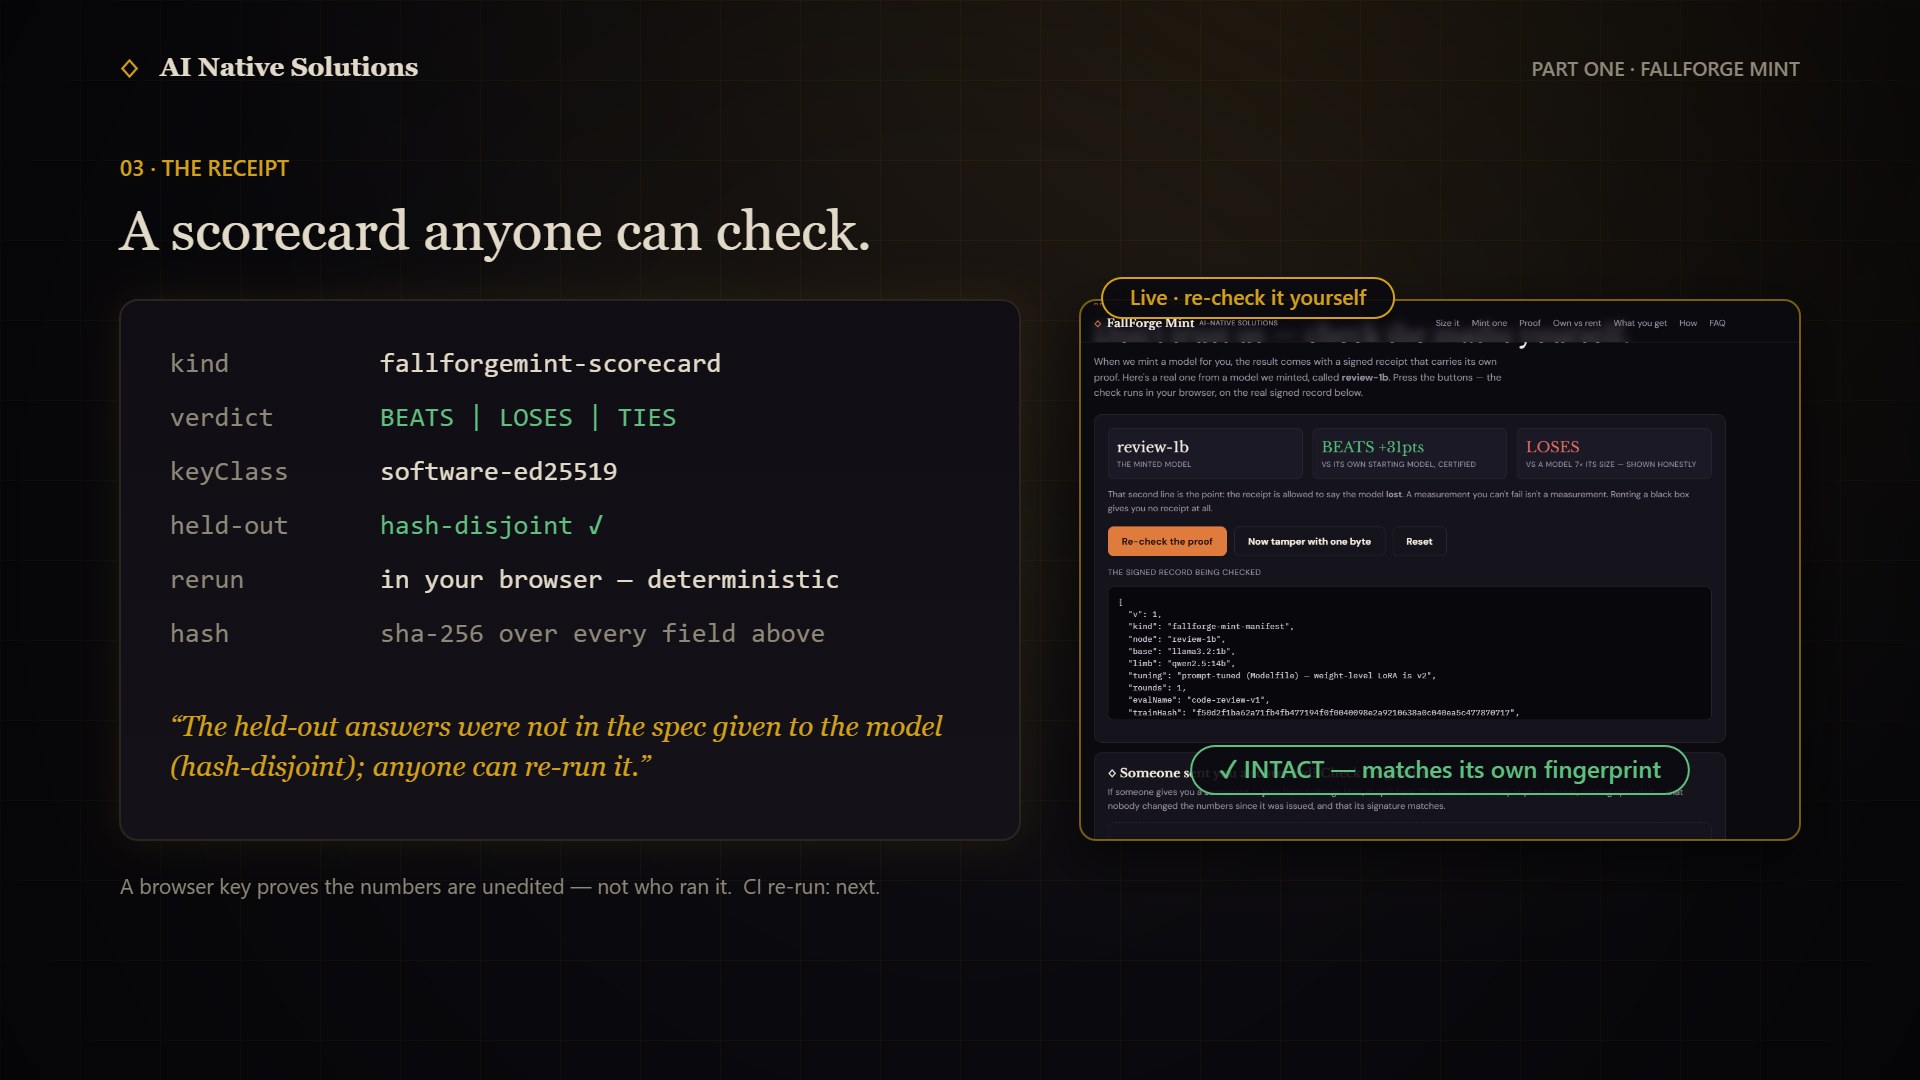
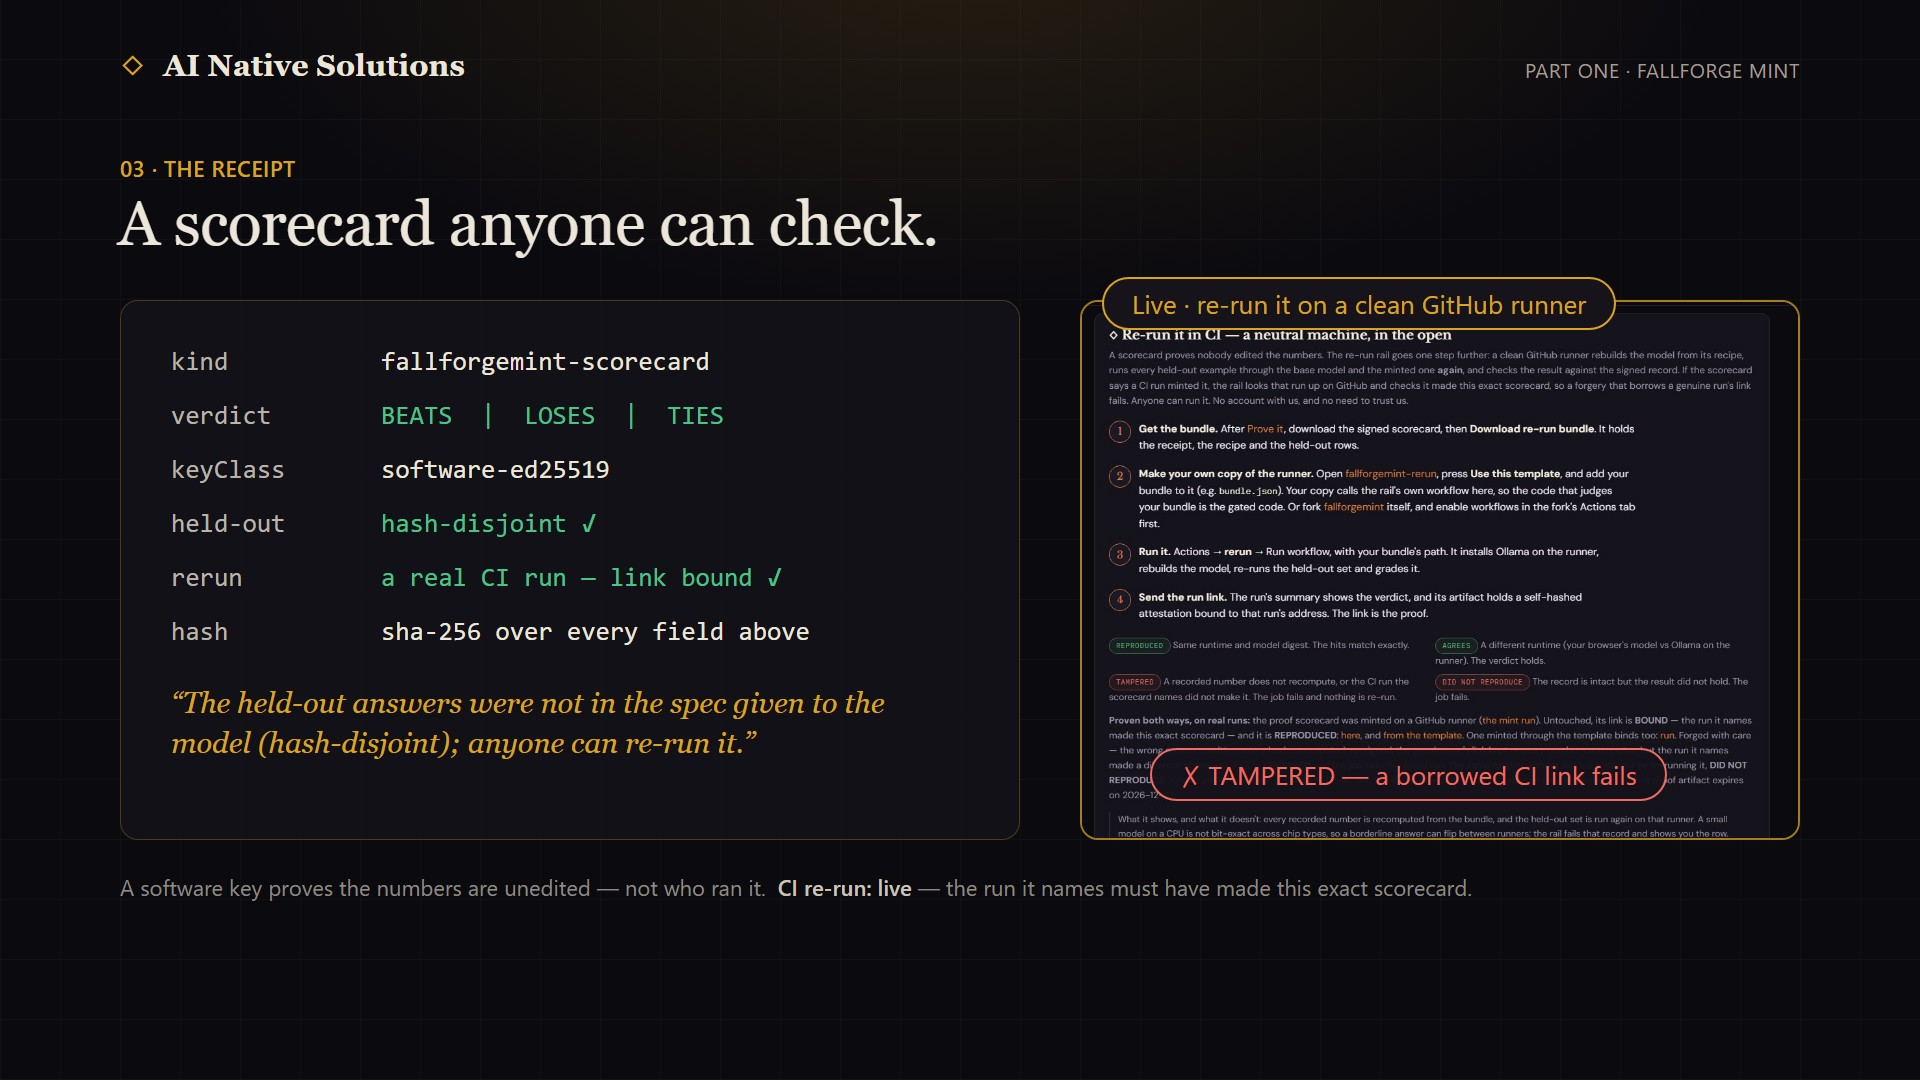
Fix the two stills that said the CI re-run was "next"; render the receipt still from source
Simon: "fix those two images". Both showed the CI re-run as a roadmap item; it has been live, with link-binding, since
28 September.
- media/images/scorecard-trust-rail.jpg ("03 · THE RECEIPT") is now rendered by scripts/render-stills.mjs from
  scripts/stills/scorecard-trust-rail.html, with the held-out quote filled from facts.json (it refuses an unfilled
  placeholder). rerun reads "a real CI run — link bound", the right panel is the live re-run card with "a borrowed CI
  link fails" (fallforgemint run 36439573329), and the footer says "CI re-run: live".
- media/shots/fallforgemint-get.jpg recaptured from the live page: "Re-run in CI" is live.
- media/shots/fallforgemint-rerun.jpg (new) is the live re-run card the still uses.
- The explainer's figure (the one page that shows the still) has a cache key and alt text that say what it now shows.
Not re-rendered (reported to Simon): the film shows "CI re-run: next." on the receipt frame near 0:35, and the PDF
brochure still says "A one-click CI re-run is next." and lists it under Next.

diff --git a/scripts/stills/scorecard-trust-rail.html b/scripts/stills/scorecard-trust-rail.html
@@ -1,0 +1,49 @@
+<!doctype html>
+<!-- The source of media/images/scorecard-trust-rail.jpg (the film's "03 · THE RECEIPT" still), rendered at 1920x1080 by
+     scripts/render-stills.mjs. {{HELD_OUT}} is filled from media/film/facts.json; the right panel is a capture of the
+     live FallForge Mint re-run card (media/shots/fallforgemint-rerun.jpg). Regenerate both when the product changes. -->
+<html lang="en"><meta charset="utf-8"><title>03 · The receipt</title>
+<style>
+  :root{--bg:#0b0a0f;--ink:#ece6da;--muted:#8f8a84;--gold:#d9a520;--green:#4cc38a;--red:#f06b61;--panel:#141218}
+  *{box-sizing:border-box}
+  html,body{margin:0;width:1920px;height:1080px;overflow:hidden;background:var(--bg);color:var(--ink)}
+  body{background:
+    radial-gradient(1100px 520px at 50% -60px, rgba(217,165,32,.13), transparent 70%),
+    repeating-linear-gradient(0deg, rgba(255,255,255,.022) 0 1px, transparent 1px 60px),
+    repeating-linear-gradient(90deg, rgba(255,255,255,.022) 0 1px, transparent 1px 60px), var(--bg);
+    font-family:"Segoe UI",system-ui,sans-serif;position:relative}
+  .brand{position:absolute;left:120px;top:48px;font:700 30px Georgia,serif;letter-spacing:.2px}
+  .brand b{color:var(--gold);font-weight:400;margin-right:18px}
+  .part{position:absolute;right:120px;top:56px;font-size:20px;color:#a39d95;letter-spacing:.6px}
+  .eyebrow{position:absolute;left:120px;top:153px;font-size:22px;color:var(--gold);letter-spacing:.4px;font-weight:500}
+  h1{position:absolute;left:118px;top:188px;margin:0;font:400 62px Georgia,serif;letter-spacing:-.4px}
+  .card{position:absolute;left:120px;top:300px;width:900px;height:540px;border:1px solid rgba(217,165,32,.28);border-radius:18px;background:rgba(20,18,24,.92);padding:34px 50px}
+  .row{display:grid;grid-template-columns:210px 1fr;font:26px/54px Consolas,"Cascadia Mono",monospace}
+  .row .k{color:#b9b3aa}.row .v{color:var(--ink)}.row .g{color:var(--green)}
+  .quote{margin-top:24px;font:italic 29px/40px Georgia,serif;color:var(--gold)}
+  .shot{position:absolute;left:1080px;top:300px;width:720px;height:540px;border:2px solid rgba(217,165,32,.75);border-radius:18px;overflow:hidden;background:#0d0c11}
+  .shot img{position:absolute;width:1040px;left:-170px;top:-36px}
+  .pill{position:absolute;border-radius:40px;background:#16131b;font-size:26px;padding:7px 28px;white-space:nowrap}
+  .live{left:1102px;top:277px;border:2px solid var(--gold);color:var(--gold)}
+  .bad{left:1150px;top:748px;border:2px solid var(--red);color:var(--red);background:rgba(22,19,27,.96)}
+  .foot{position:absolute;left:120px;top:872px;font-size:22px;color:var(--muted)}
+  .foot b{color:#c9c3b9;font-weight:500}
+</style>
+<div class="brand"><b>◇</b>AI Native Solutions</div>
+<div class="part">PART ONE · FALLFORGE MINT</div>
+<div class="eyebrow">03 · THE RECEIPT</div>
+<h1>A scorecard anyone can check.</h1>
+<div class="card">
+  <div class="row"><span class="k">kind</span><span class="v">fallforgemint-scorecard</span></div>
+  <div class="row"><span class="k">verdict</span><span class="g">BEATS &nbsp;|&nbsp; LOSES &nbsp;|&nbsp; TIES</span></div>
+  <div class="row"><span class="k">keyClass</span><span class="v">software-ed25519</span></div>
+  <div class="row"><span class="k">held-out</span><span class="g">hash-disjoint ✓</span></div>
+  <div class="row"><span class="k">rerun</span><span class="g">a real CI run — link bound ✓</span></div>
+  <div class="row"><span class="k">hash</span><span class="v">sha-256 over every field above</span></div>
+  <div class="quote">“{{HELD_OUT}}”</div>
+</div>
+<div class="shot"><img src="../../media/shots/fallforgemint-rerun.jpg" alt=""></div>
+<div class="pill live">Live · re-run it on a clean GitHub runner</div>
+<div class="pill bad">✗ TAMPERED — a borrowed CI link fails</div>
+<div class="foot">A software key proves the numbers are unedited — not who ran it. &nbsp;<b>CI re-run: live</b> — the run it names must have made this exact scorecard.</div>
+</html>

diff --git a/explainer.html b/explainer.html
@@ -196,7 +196,7 @@ footer .k{margin-left:auto}
     <figure><img src="media/images/sizer-ladder.jpg" alt="The sizer ladder from about 1 billion to about 200 billion parameters, recommending Llama 3.2 1B for a short-label classification job" loading="lazy" width="1920" height="1080"><figcaption><b>The sizer, 1B → ~200B.</b> The smallest open-weight model that clears the bar — a 1B answer says 1B. <a href="media/images/sizer-ladder.jpg" download>Download</a></figcaption></figure>
     <figure><img src="media/images/sizer-ladder-70b.jpg" alt="The sizer ladder recommending Llama 3.3 70B for a strict code-writing job on a GPU box" loading="lazy" width="1920" height="1080"><figcaption><b>…and when bigger is genuinely needed.</b> Strict code on a GPU box: Llama 3.3 70B. <a href="media/images/sizer-ladder-70b.jpg" download>Download</a></figcaption></figure>
     <figure><img src="media/images/scorecard-real-receipt.jpg" alt="A real signed receipt: review-1b scored 9 of 16 against its base model's 4 of 16, BEATS, certified; against qwen2.5 7B's 11 of 16 it LOSES" loading="lazy" width="1920" height="1080"><figcaption><b>A real receipt that says it lost.</b> review-1b beats its base 9/16 vs 4/16 — and loses to a model ~7× its size. <a href="media/images/scorecard-real-receipt.jpg" download>Download</a></figcaption></figure>
-    <figure><img src="media/images/scorecard-trust-rail.jpg" alt="The scorecard fields: verdict, keyClass software-ed25519, held-out hash-disjoint, re-run in your browser, and a live verify check" loading="lazy" width="1920" height="1080"><figcaption><b>The scorecard.</b> What the signature proves, the narrow-true held-out claim, and a re-run anyone can do. <a href="media/images/scorecard-trust-rail.jpg" download>Download</a></figcaption></figure>
+    <figure><img src="media/images/scorecard-trust-rail.jpg?v=2026-09-28-rail" alt="The scorecard fields: verdict, keyClass software-ed25519, held-out hash-disjoint, rerun a real CI run whose link is bound, beside the live CI re-run card, where a borrowed CI link fails" loading="lazy" width="1920" height="1080"><figcaption><b>The scorecard.</b> What the signature proves, the narrow-true held-out claim, and a re-run anyone can do on a clean GitHub runner. <a href="media/images/scorecard-trust-rail.jpg?v=2026-09-28-rail" download>Download</a></figcaption></figure>
     <figure><img src="media/images/own-vs-rent.jpg" alt="Own versus rent, relative cost per million tokens: owning 1x, cloud GPU instances about 6x, a hosted reasoning-model API about 17x; low use says keep renting, high use says own it" loading="lazy" width="1920" height="1080"><figcaption><b>Own vs rent, honestly.</b> Cited from Lenovo's 2026 TCO study — and it says keep renting when that's cheaper. <a href="media/images/own-vs-rent.jpg" download>Download</a></figcaption></figure>
     <figure><img src="media/images/pipeline-seven-stages.jpg" alt="One pipeline, seven stages: Prove, Own, Shape, Carry, Remember, Run, Connect" loading="lazy" width="1920" height="1080"><figcaption><b>One pipeline, seven stages.</b> Prove · Own · Shape · Carry · Remember · Run · Connect. <a href="media/images/pipeline-seven-stages.jpg" download>Download</a></figcaption></figure>
     <figure><img src="media/images/trust-rail-witness.jpg" alt="The witness mutation gate: FallForge Mint 224 of 225 mutants killed with no survivors; left-pad 5 of 6 killed with one survivor" loading="lazy" width="1920" height="1080"><figcaption><b>The trust rail.</b> A gate that tries to break every test — and found a line left-pad's green suite never pins. <a href="media/images/trust-rail-witness.jpg" download>Download</a></figcaption></figure>
